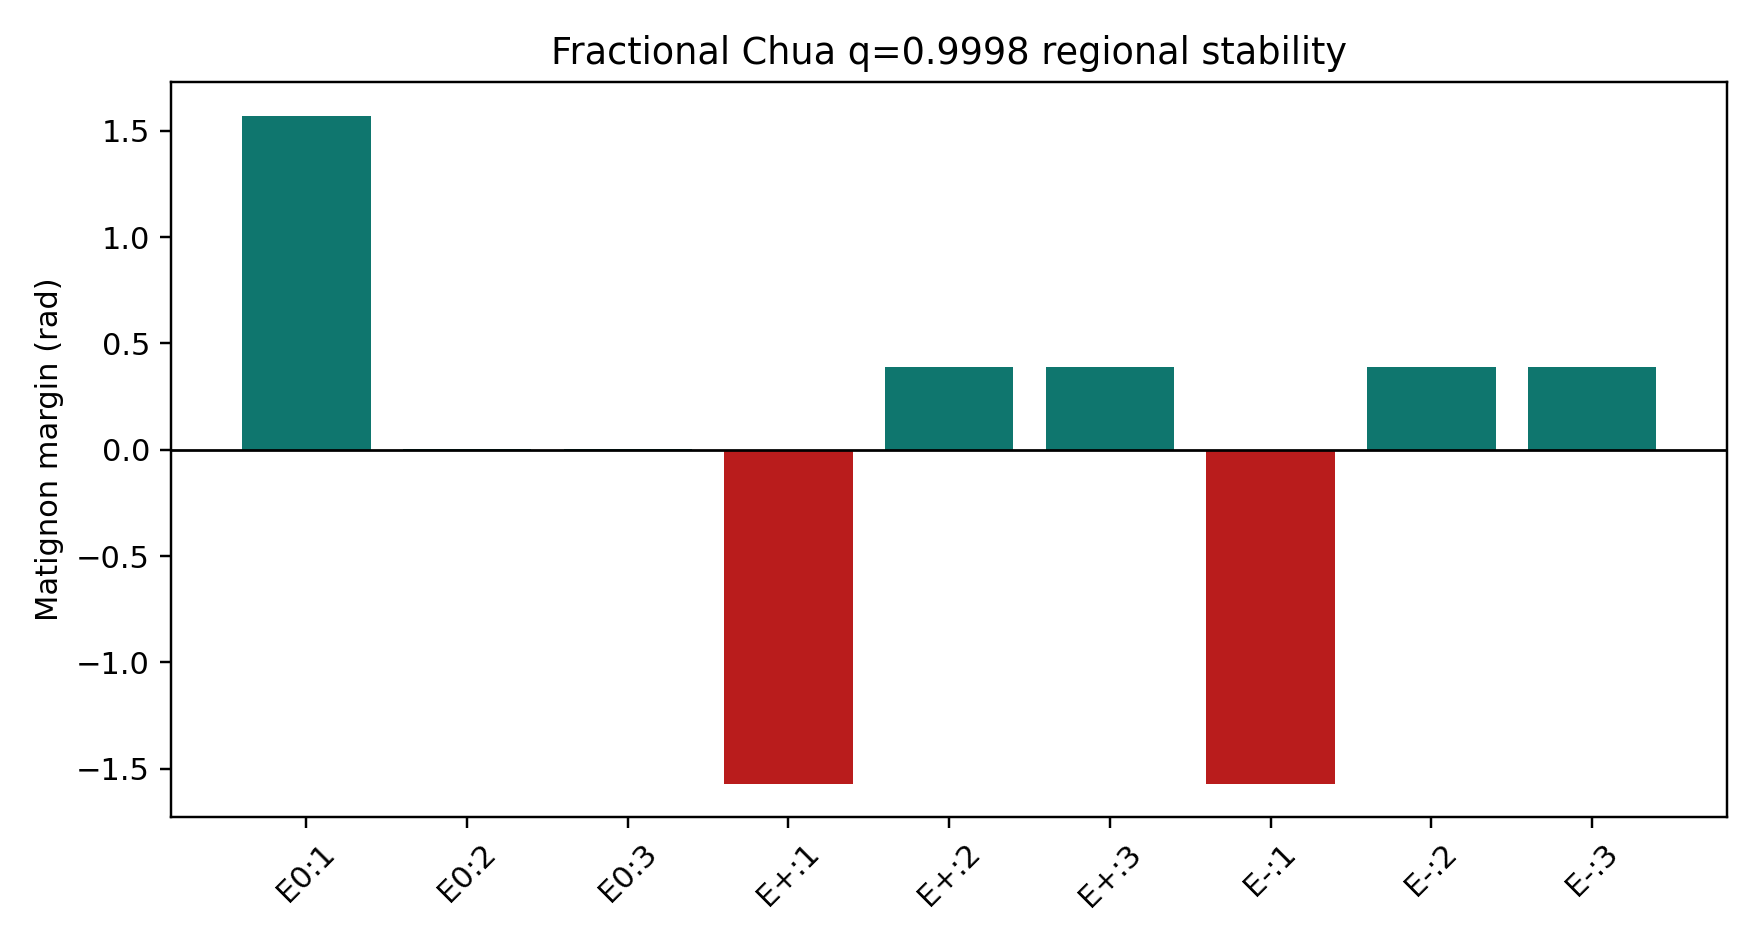
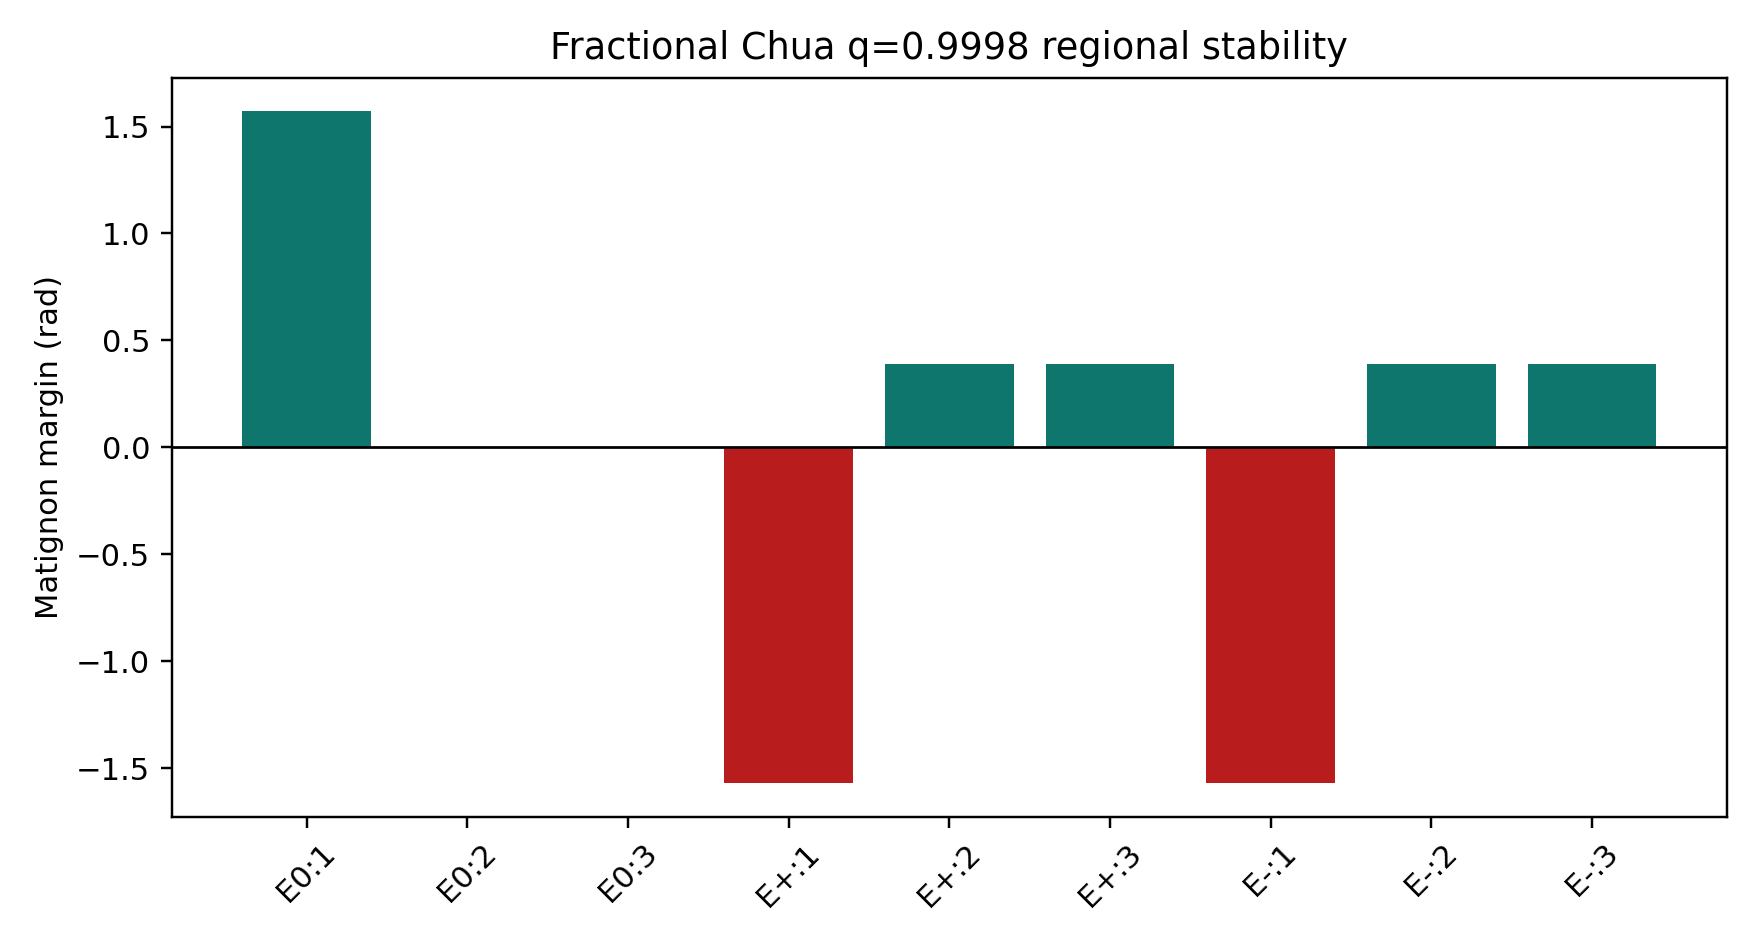
feat: add algebraic validation framework including manifests and cross-tool comparison artifacts

diff --git a/version_2/validation/02_algebraic_validation/algebraic_validation_validation.md b/version_2/validation/02_algebraic_validation/algebraic_validation_validation.md
@@ -9,7 +9,6 @@
 - **Describing-Function/Machado Checks**: Passed. Validated harmonic seed generation.
 
 ## Cross-Tool Validation
-- **MATLAB Comparison**: missing external artifacts.
 - **Wolfram Comparison**: missing external artifacts.
 
 Overall Stage Status: passed_internal_pending_external_cross_tool